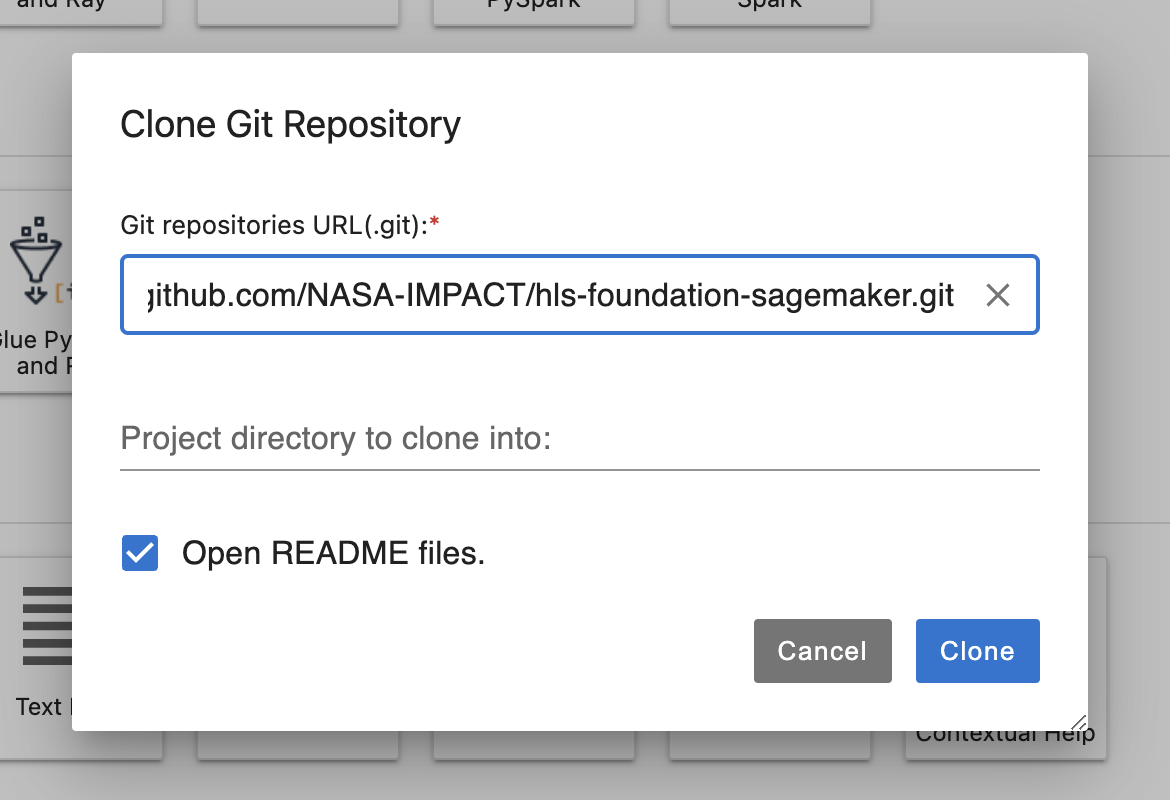
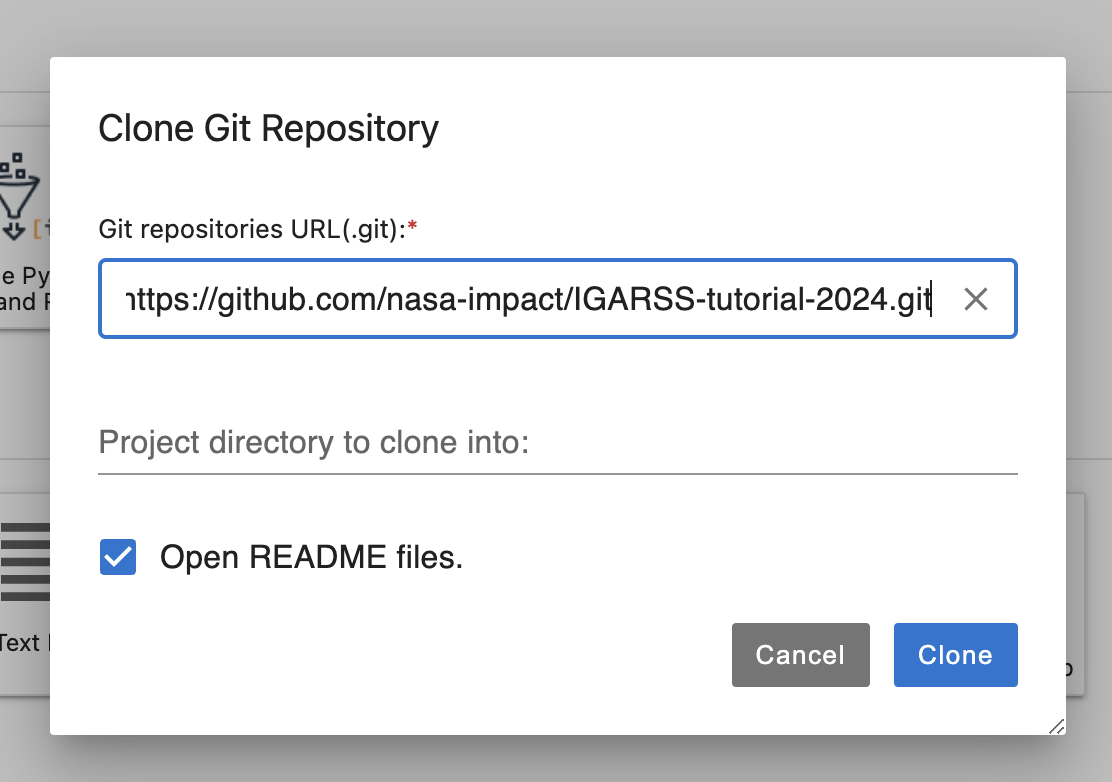
Update readme.

diff --git a/README.md b/README.md
@@ -30,12 +30,12 @@ This repo contains materials for the tutorial: [GRSS ESI/HDCRS Machine Learning 
 ![Run space](images/updated-instance-config.png)
 
 # Steps to Train (Parts of these steps are also available in the [fine-tuning notebook](notebooks/hls-fm-finteuning.ipynb)):
-1. Clone this repository `git clone https://github.com/nasa-impact/hls-foundation-sagemaker.git`
+1. Clone this repository `git clone https://github.com/nasa-impact/IGARSS-tutorial-2024.git`
 ```
 a. Click `git`
 b. Click on `Git Clone Repo`
 ![Git clone](images/git-clone-1.png)
-c. Paste `https://github.com/nasa-impact/hls-foundation-sagemaker.git` and Click on `Clone`.
+c. Paste `https://github.com/nasa-impact/IGARSS-tutorial-2024.git` and Click on `Clone`.
 ![Cloned repository](images/smd-hls-git-clone.png)
 ![Cloned repository](images/smd-hls-cloned-content.png)
 ```
@@ -63,7 +63,7 @@ pip install -r requirements.txt
 ```
 6. Define constants. **Note: Please update the variables as needed**
 ```
-BUCKET_NAME = '<your-bucket-name>' # Replace this with the bucket name available from http://smd-ai-workshop-creds-webapp.s3-website-us-east-1.amazonaws.com/ 
+BUCKET_NAME = '<your-bucket-name>' # Replace this with the bucket name available from https://creds-workshop.nasa-impact.net/
 CONFIG_PATH = './configs'
 DATASET_PATH = './datasets'
 MODEL_PATH = './models'
